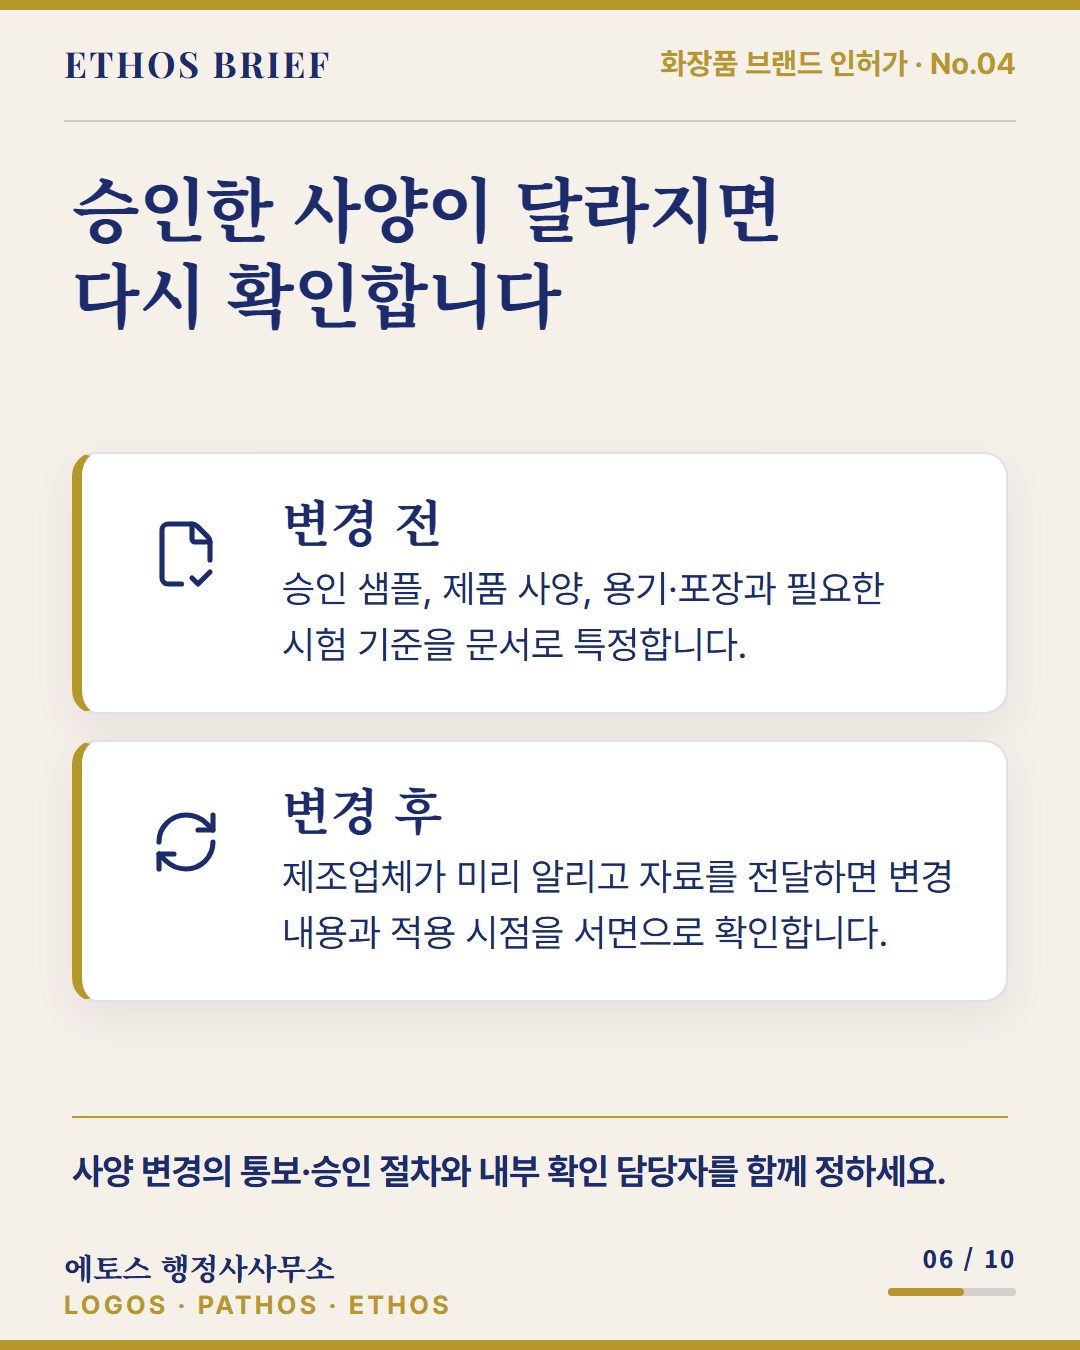
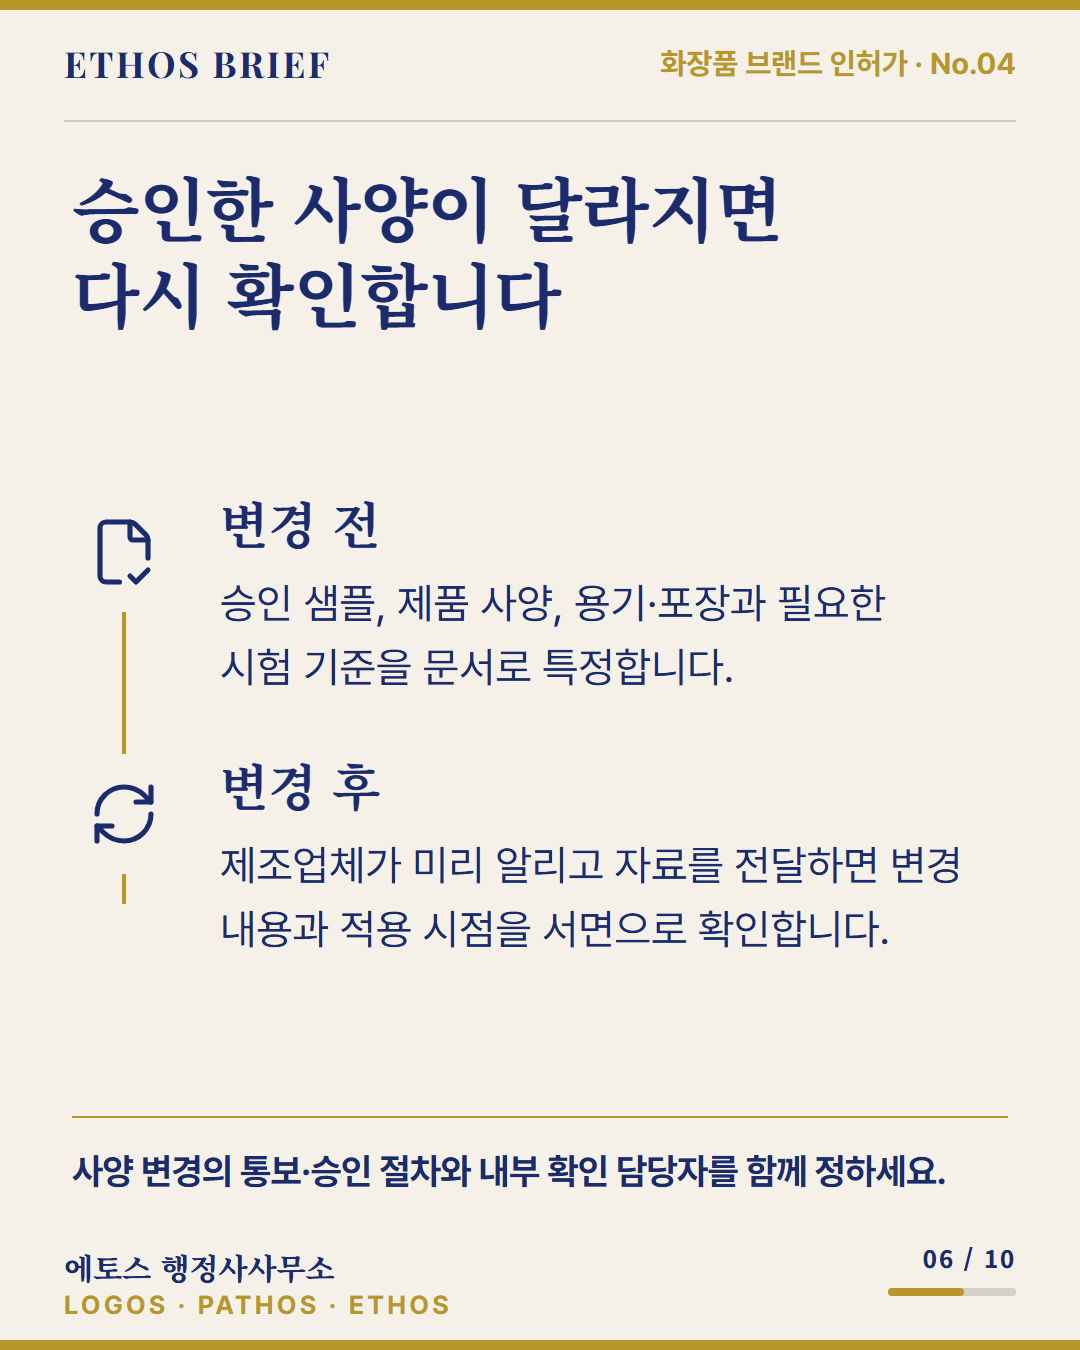
design(cards): clarify OEM hierarchy without changing legal copy

Changed region(s): [[0.0611, 0.3422, 0.8861, 0.7467]]

diff --git a/content/COSMETICS-OEM-04/design.css b/content/COSMETICS-OEM-04/design.css
@@ -91,3 +91,47 @@
 .free.lang-en[data-page="7"] .krow-k { font-family:"Pretendard","ETHOS Sans"; font-size:18px; line-height:1.25; font-weight:700; }
 .free.lang-en[data-page="7"] .krow-t { font-size:21px; line-height:1.38; }
 .free.lang-en[data-page="7"] .krow:last-child { border-bottom:0; }
+
+/* Editorial refinement: one strong visual per card; all source copy retained.
+   Cover = question + product; 2 = parallel responsibilities; 6 = change timeline;
+   7 = grouped legal factors; CTA = quiet preparation, one strong action. */
+.card.free[data-card-type="cover"] .rough-annotation { display:none; }
+.card.free[data-card-type="cover"] .cvb-paths { gap:18px; margin:18px 0 0; justify-content:flex-start; }
+.card.free[data-card-type="cover"] .cvb-paths span { flex:none; padding:0; border:0; font-size:17px; font-weight:500; color:var(--ethos-cream); text-align:left; }
+.card.free[data-card-type="cover"] .cvb-wrap { margin-top:24px; }
+.card.free[data-card-type="cover"] .cv-lede { padding:0; border:0; font-size:21px; line-height:1.45; }
+.card.free[data-card-type="cover"] .cv-promise { display:block; padding:0; margin:14px 0 0; border:0; border-radius:0; font-size:18px; }
+.card.free[data-card-type="cover"] .take { padding:14px 0 0; border:0; border-top:1px solid rgba(245,240,232,.24); border-radius:0; background:transparent; box-shadow:none; font-size:18px; font-weight:500; }
+
+.card.free[data-page="2"] .ico-rows { display:grid; grid-template-columns:1fr 1fr; gap:24px; }
+.card.free[data-page="2"] .ico-row { display:block; padding:0; border:0; border-radius:0; background:transparent; box-shadow:none; }
+.card.free[data-page="2"] .ico-row + .ico-row { border-left:1px solid rgba(var(--ethos-navy-rgb),.25); padding-left:24px; }
+.card.free[data-page="2"] .badge { width:52px; height:52px; margin-bottom:18px; background:transparent; border-radius:0; }
+.card.free[data-page="2"] .badge svg { width:44px; height:44px; }
+.card.free[data-page="2"] .ico-row-k { font-size:25px; margin-bottom:16px; }
+.card.free[data-page="2"] .ico-row-t { font-size:20px; line-height:1.5; }
+.card.free.lang-en[data-page="2"] .ico-row-k { font-size:22px; }
+.card.free.lang-en[data-page="2"] .ico-row-t { font-size:19px; line-height:1.45; }
+
+.card.free[data-page="6"] .ico-rows { position:relative; gap:28px; }
+.card.free[data-page="6"] .ico-rows::before { content:""; position:absolute; left:25px; top:28px; bottom:28px; width:2px; background:var(--ethos-gold); }
+.card.free[data-page="6"] .ico-row { position:relative; grid-template-columns:52px 1fr; gap:22px; padding:0; border:0; border-radius:0; box-shadow:none; background:transparent; }
+.card.free[data-page="6"] .badge { width:52px; height:60px; background:var(--ethos-cream); border-radius:0; }
+.card.free[data-page="6"] .ico-row-k { margin-bottom:10px; }
+.card.free[data-page="6"] .ico-row-t { font-size:21px; }
+.card.free.lang-en[data-page="6"] .ico-row-t { font-size:20px; line-height:1.45; }
+
+.card.free.lang-en[data-page="7"] .h2 { font-size:30px; line-height:1.2; white-space:nowrap; letter-spacing:-.8px; }
+.card.free.lang-en[data-page="7"] .legal-factor { display:block; padding-left:12px; border-left:2px solid var(--ethos-gold); margin-top:5px; text-wrap:pretty; }
+.card.free.lang-en[data-page="7"] .krow:nth-child(2) { border-bottom:0; }
+
+.card.free[data-card-type="cta"] .rough-annotation { display:none; }
+.card.free[data-card-type="cta"] .bound { gap:26px; }
+.card.free[data-card-type="cta"] .bound-col,
+.card.free[data-card-type="cta"] .bound-col.deep { padding:0; border:0; border-radius:0; box-shadow:none; background:transparent; }
+.card.free[data-card-type="cta"] .bound-col + .bound-col { padding-top:22px; border-top:1px solid rgba(var(--ethos-navy-rgb),.25); }
+.card.free[data-card-type="cta"] :is(.bound-col.deep .bound-k,.bound-col.deep .bound-t,.bound-col.deep .bound-ico) { color:var(--ethos-navy); }
+.card.free[data-card-type="cta"] .bound-k { font-size:25px; }
+.card.free[data-card-type="cta"] .bound-t { font-size:20px; line-height:1.5; }
+.card.free.lang-en[data-card-type="cta"] .bound-t { font-size:20px; line-height:1.45; }
+.card.free[data-card-type="cta"] .take { border:0; border-radius:12px; padding:18px 20px; box-shadow:none; }

diff --git a/content/COSMETICS-OEM-04/en/card_07.html b/content/COSMETICS-OEM-04/en/card_07.html
@@ -14,7 +14,7 @@
   <div class="hl" data-frame="line"></div>
   <div class="body">
     <div class="z-title" data-zone="title"><h2 class="h2" data-role="headline">Which Records Must Be Shared?</h2></div>
-    <div class="z-main" data-zone="main"><div class="krows stack" data-focal><div class="krow"><div class="krow-k">Record duty</div><div class="krow-t">Manufacturers must share manufacturing and quality records needed for quality control.</div></div><div class="krow"><div class="krow-k">Exception</div><div class="krow-t">This depends on the design, development and production model, quality and safety impact, and trade-secret scope in the contract.</div></div><div class="krow"><div class="krow-k">Not a blanket ban</div><div class="krow-t">Calling records confidential does not automatically remove the duty to share necessary quality records.</div></div></div></div>
+    <div class="z-main" data-zone="main"><div class="krows stack" data-focal><div class="krow"><div class="krow-k">Record duty</div><div class="krow-t">Manufacturers must share manufacturing and quality records needed for quality control.</div></div><div class="krow"><div class="krow-k">Exception</div><div class="krow-t"><span class="legal-factor">This depends on the design, development and production model,</span> <span class="legal-factor">quality and safety impact,</span> <span class="legal-factor">and trade-secret scope in the contract.</span></div></div><div class="krow"><div class="krow-k">Not a blanket ban</div><div class="krow-t">Calling records confidential does not automatically remove the duty to share necessary quality records.</div></div></div></div>
     <div class="z-take" data-zone="take"><div class="close" data-role="takeaway">Distinguish quality records to share from technical information to protect.</div></div>
   </div>
   <div class="ftr"><div class="org" data-frame="org">Ethos Administrative Attorney Office</div><div class="tagl" data-frame="tagline">LOGOS · PATHOS · ETHOS</div><div class="pg" data-frame="page" aria-hidden="true" data-progress="07 / 10"></div></div>

diff --git a/tests/test_layout_balance.py b/tests/test_layout_balance.py
@@ -97,3 +97,39 @@ class LayoutBalanceTests(unittest.TestCase):
                         self.assertIn(f'{number:02d} / 10', values['content'])
         finally:
             page.close()
+
+    def test_oem_editorial_hierarchy_and_legal_groups(self):
+        root = pathlib.Path(__file__).resolve().parents[1]
+        page = self.browser.new_page()
+        try:
+            for lang in ('ko', 'en'):
+                for number in (1, 2, 6, 7, 10):
+                    with self.subTest(lang=lang, page=number):
+                        page.goto((root / f'content/COSMETICS-OEM-04/{lang}/card_{number:02d}.html').as_uri())
+                        page.evaluate('document.fonts.ready')
+                        page.wait_for_function("document.querySelector('.z-main').hasAttribute('data-fit')")
+                        self.assertEqual(page.locator('.z-main').get_attribute('data-fit'), '1.00')
+                        self.assertEqual(page.locator('.z-main').get_attribute('data-fit-overflow'), '0')
+                        if number == 1:
+                            self.assertEqual(page.locator('.cv-promise').evaluate('(n) => getComputedStyle(n).borderTopWidth'), '0px')
+                            self.assertEqual(page.locator('.take').evaluate('(n) => getComputedStyle(n).backgroundColor'), 'rgba(0, 0, 0, 0)')
+                        if number == 2:
+                            boxes = page.locator('.ico-row').evaluate_all('(nodes) => nodes.map(n => { const r=n.getBoundingClientRect(); return {x:r.x,y:r.y}; })')
+                            self.assertAlmostEqual(boxes[0]['y'], boxes[1]['y'], delta=1)
+                            self.assertGreater(boxes[1]['x'], boxes[0]['x'] + 200)
+                        if number == 6:
+                            self.assertEqual(page.locator('.ico-row').first.evaluate('(n) => getComputedStyle(n).boxShadow'), 'none')
+                        if number == 7 and lang == 'en':
+                            factors = page.locator('.legal-factor').all_text_contents()
+                            self.assertEqual(factors, [
+                                'This depends on the design, development and production model,',
+                                'quality and safety impact,',
+                                'and trade-secret scope in the contract.'
+                            ])
+                            self.assertTrue(page.locator('.h2').evaluate('(n) => n.scrollWidth <= n.clientWidth + 1'))
+                        if number == 10:
+                            colors = page.locator('.bound-col').evaluate_all('(nodes) => nodes.map(n => getComputedStyle(n).backgroundColor)')
+                            self.assertEqual(colors, ['rgba(0, 0, 0, 0)'] * 2)
+                            self.assertNotEqual(page.locator('.take').evaluate('(n) => getComputedStyle(n).backgroundColor'), 'rgba(0, 0, 0, 0)')
+        finally:
+            page.close()

diff --git a/content/COSMETICS-OEM-04/review.md b/content/COSMETICS-OEM-04/review.md
@@ -1,5 +1,16 @@
 # COSMETICS-OEM-04 디자인 검수 — 2026-10-18
 
+## Editorial hierarchy revision — four remaining design issues
+
+- All card-data and blog wording remain unchanged. English card 7 adds semantic spans only: the design/development/production model, quality/safety impact and contractual trade-secret scope are individually grouped, with the conjunction and punctuation intact. Copy lock remains mandatory.
+- Covers: removed decorative underlines, path-tab rules, promise-chip border and heavy takeaway panel. Product artwork and question dominate; all supporting copy remains visible.
+- Card 2: parallel responsibility columns replace stacked boxes. English paragraphs run 5–6 lines at 19px; this is a disclosed line-count advisory, not a reason to shrink type. Both columns retain their complete duties.
+- Card 6: an open before/after timeline replaces duplicate rounded panels. Card 3 keeps its conditional panels, so adjacent concepts no longer repeat the same visual structure.
+- English card 7: single-line 30px headline releases room for three visible exception factors; 21px body retained without shrinking. Density advisory remains.
+- CTA: both preparation and review sections use the cream page, navy text and a quiet separator. Only the final free-review sentence has a navy filled panel. No new service, promise, button or contact information.
+- Actual PNGs checked: both language sheets, English 1/2/6/7/10 and Korean 2/10 at full size. Visual hierarchy is clearer; this is not a claim of perfection or an externally validated score. Publication approval remains separate.
+- Validation for this revision: 185 tests pass (four dependency deprecation warnings); copy lint has zero warnings and 11 information items; bilingual and distribution checks pass; five shared visual baselines have zero pixel changes. All 20 cards render with fitScale=1.00 and fitOverflow=0. Remote CI is verified after push, separately from this local record.
+
 ## Latest revision — footer, cover and English card 7
 
 This section supersedes the earlier cover and card-7 observations below. The earlier review missed a footer defect; automatic QA was not evidence of visual completion.

diff --git a/state/design-feedback.md b/state/design-feedback.md
@@ -4,6 +4,7 @@
 
 | 날짜 | 피드백 원문 | 반영 |
 |---|---|---|
+| 2026-10-18 | "그럼 남은 네 가지도 한 번에 개선해. 법률 조건은 유지하고 표지·영문 7장·반복 배치·CTA까지 정리해서 실제 카드 다시 보여줘. 테스트·CI 확인하고 커밋 푸시까지 해." | 문구 변경 없이 표지 장식 절제, 책임 비교 2열·변경 전후 타임라인, 영문 예외 조건 묶음, 마지막 CTA만 채움 강조 |
 | 2026-10-18 | "그럼 말한 세 문제 한 번에 다 고쳐. 숫자·진행바 겹침 없애고 표지랑 영문 7장까지 개선해서 실제 카드 다시 보여줘. 테스트·CI까지 확인하고 커밋 푸시해." | 공통 푸터 숫자·막대 8px 분리 및 회귀 검사, 화장품 용기 전용 표지, 영문 7장 문장 정리와 21px 본문 |
 | 2026-10-06 | "그 다음에 카드뉴스 개선점은 없어? 디자인이라던가 여백 및 중앙 배치 문제라던가... 그것도 봐주고 우선 방금 보여준 개선들 진행하고 커밋 푸쉬해줘" | 프리셋 A 표지 그림 중앙 배치, 본문 고유 높이·일정 간격, 실제 글자·그림의 contentBalance 검사. 글자 가운데 정렬과 묶음 중앙 배치를 구분 |
 | 2026-10-06 | "아 그리고 하나 더. 글 쓸때에는 확실한건 확실하게 맞다고 하고 이것도 맞고 저것도 맞아요하는식의 구성은 지양하게도 설정해줘" | definitive-style v1.1·프로젝트 진입 지침·윤문 프롬프트에 확인된 결론 우선, 근거 없는 양시론 지양. 실제 조건·재량은 보존 |

diff --git a/content/COSMETICS-OEM-04/out/en/qa-report.md b/content/COSMETICS-OEM-04/out/en/qa-report.md
@@ -4,19 +4,23 @@
 
 | 카드 | 유형 | 글자수 | 단어수 | 본문 채움 | 하단 여백 | 결과 |
 |---|---|---:|---:|---:|---:|---|
-| card_01.html | cover | 211 | 38 | 0.95 | 26 | PASS |
-| card_02.html | comparison | 299 | 47 | 0.82 | 26 | PASS |
+| card_01.html | cover | 211 | 38 | 0.87 | 26 | PASS |
+| card_02.html | comparison | 299 | 47 | 0.79 | 26 | PASS |
 | card_03.html | concept | 304 | 51 | 0.69 | 26 | PASS |
 | card_04.html | checklist | 237 | 45 | 0.88 | 26 | PASS |
 | card_05.html | process | 254 | 51 | 0.91 | 26 | PASS |
-| card_06.html | comparison | 315 | 50 | 0.79 | 26 | PASS |
-| card_07.html | concept | 400 | 66 | 0.98 | 26 | PASS |
+| card_06.html | comparison | 315 | 50 | 0.75 | 26 | PASS |
+| card_07.html | concept | 400 | 66 | 0.97 | 26 | PASS |
 | card_08.html | rest | 98 | 16 | 0.4 | 26 | PASS |
 | card_09.html | checklist | 311 | 52 | 0.88 | 26 | PASS |
-| card_10.html | cta | 345 | 58 | 0.96 | 26 | PASS |
+| card_10.html | cta | 345 | 58 | 0.75 | 26 | PASS |
 
 ### card_01.html 권고
 - main-zone 블록 4 > 권장 3
+
+### card_02.html 권고
+- paragraph-lines 5 > 권장 4: 'Tests raw mate'
+- paragraph-lines 6 > 권장 4: 'Oversees the c'
 
 ### card_07.html 권고
 - chars 400 > 권고 340 (문장 압축 또는 카드 분리 검토)

diff --git a/content/COSMETICS-OEM-04/out/ko/qa-report.md b/content/COSMETICS-OEM-04/out/ko/qa-report.md
@@ -4,16 +4,16 @@
 
 | 카드 | 유형 | 글자수 | 단어수 | 본문 채움 | 하단 여백 | 결과 |
 |---|---|---:|---:|---:|---:|---|
-| card_01.html | cover | 83 | 28 | 0.88 | 26 | PASS |
-| card_02.html | comparison | 120 | 33 | 0.79 | 26 | PASS |
+| card_01.html | cover | 83 | 28 | 0.8 | 26 | PASS |
+| card_02.html | comparison | 120 | 33 | 0.68 | 26 | PASS |
 | card_03.html | concept | 139 | 46 | 0.91 | 26 | PASS |
 | card_04.html | checklist | 107 | 27 | 0.62 | 26 | PASS |
 | card_05.html | process | 110 | 36 | 0.68 | 26 | PASS |
-| card_06.html | comparison | 121 | 39 | 0.71 | 26 | PASS |
+| card_06.html | comparison | 121 | 39 | 0.6 | 26 | PASS |
 | card_07.html | concept | 187 | 55 | 0.89 | 26 | PASS |
 | card_08.html | rest | 42 | 12 | 0.44 | 26 | PASS |
 | card_09.html | checklist | 111 | 39 | 0.68 | 26 | PASS |
-| card_10.html | cta | 148 | 46 | 0.88 | 26 | PASS |
+| card_10.html | cta | 148 | 46 | 0.77 | 26 | PASS |
 
 ### card_01.html 권고
 - main-zone 블록 4 > 권장 3

diff --git a/CHANGELOG.md b/CHANGELOG.md
@@ -1,5 +1,11 @@
 # Changelog
 
+## 2026-10-18 — OEM editorial hierarchy without copy changes
+
+- Simplified cover chrome, separated responsibility columns, introduced an open change timeline and reserved filled emphasis for the final CTA.
+- Grouped English card 7's three exception factors without changing any source words or legal qualifiers; kept 21px body type.
+- Added browser assertions for visual hierarchy, legal groups, unshrunk type and headline bounds. Shared renderer, thresholds and prior footer fix remain unchanged.
+
 ## 2026-10-18 — Footer separation and topic-specific OEM cover
 
 - User-requested footer repair: explicit 4px track, aligned fill and 8px clearance below the page label. Browser regression covers both languages and all ten progress values.
